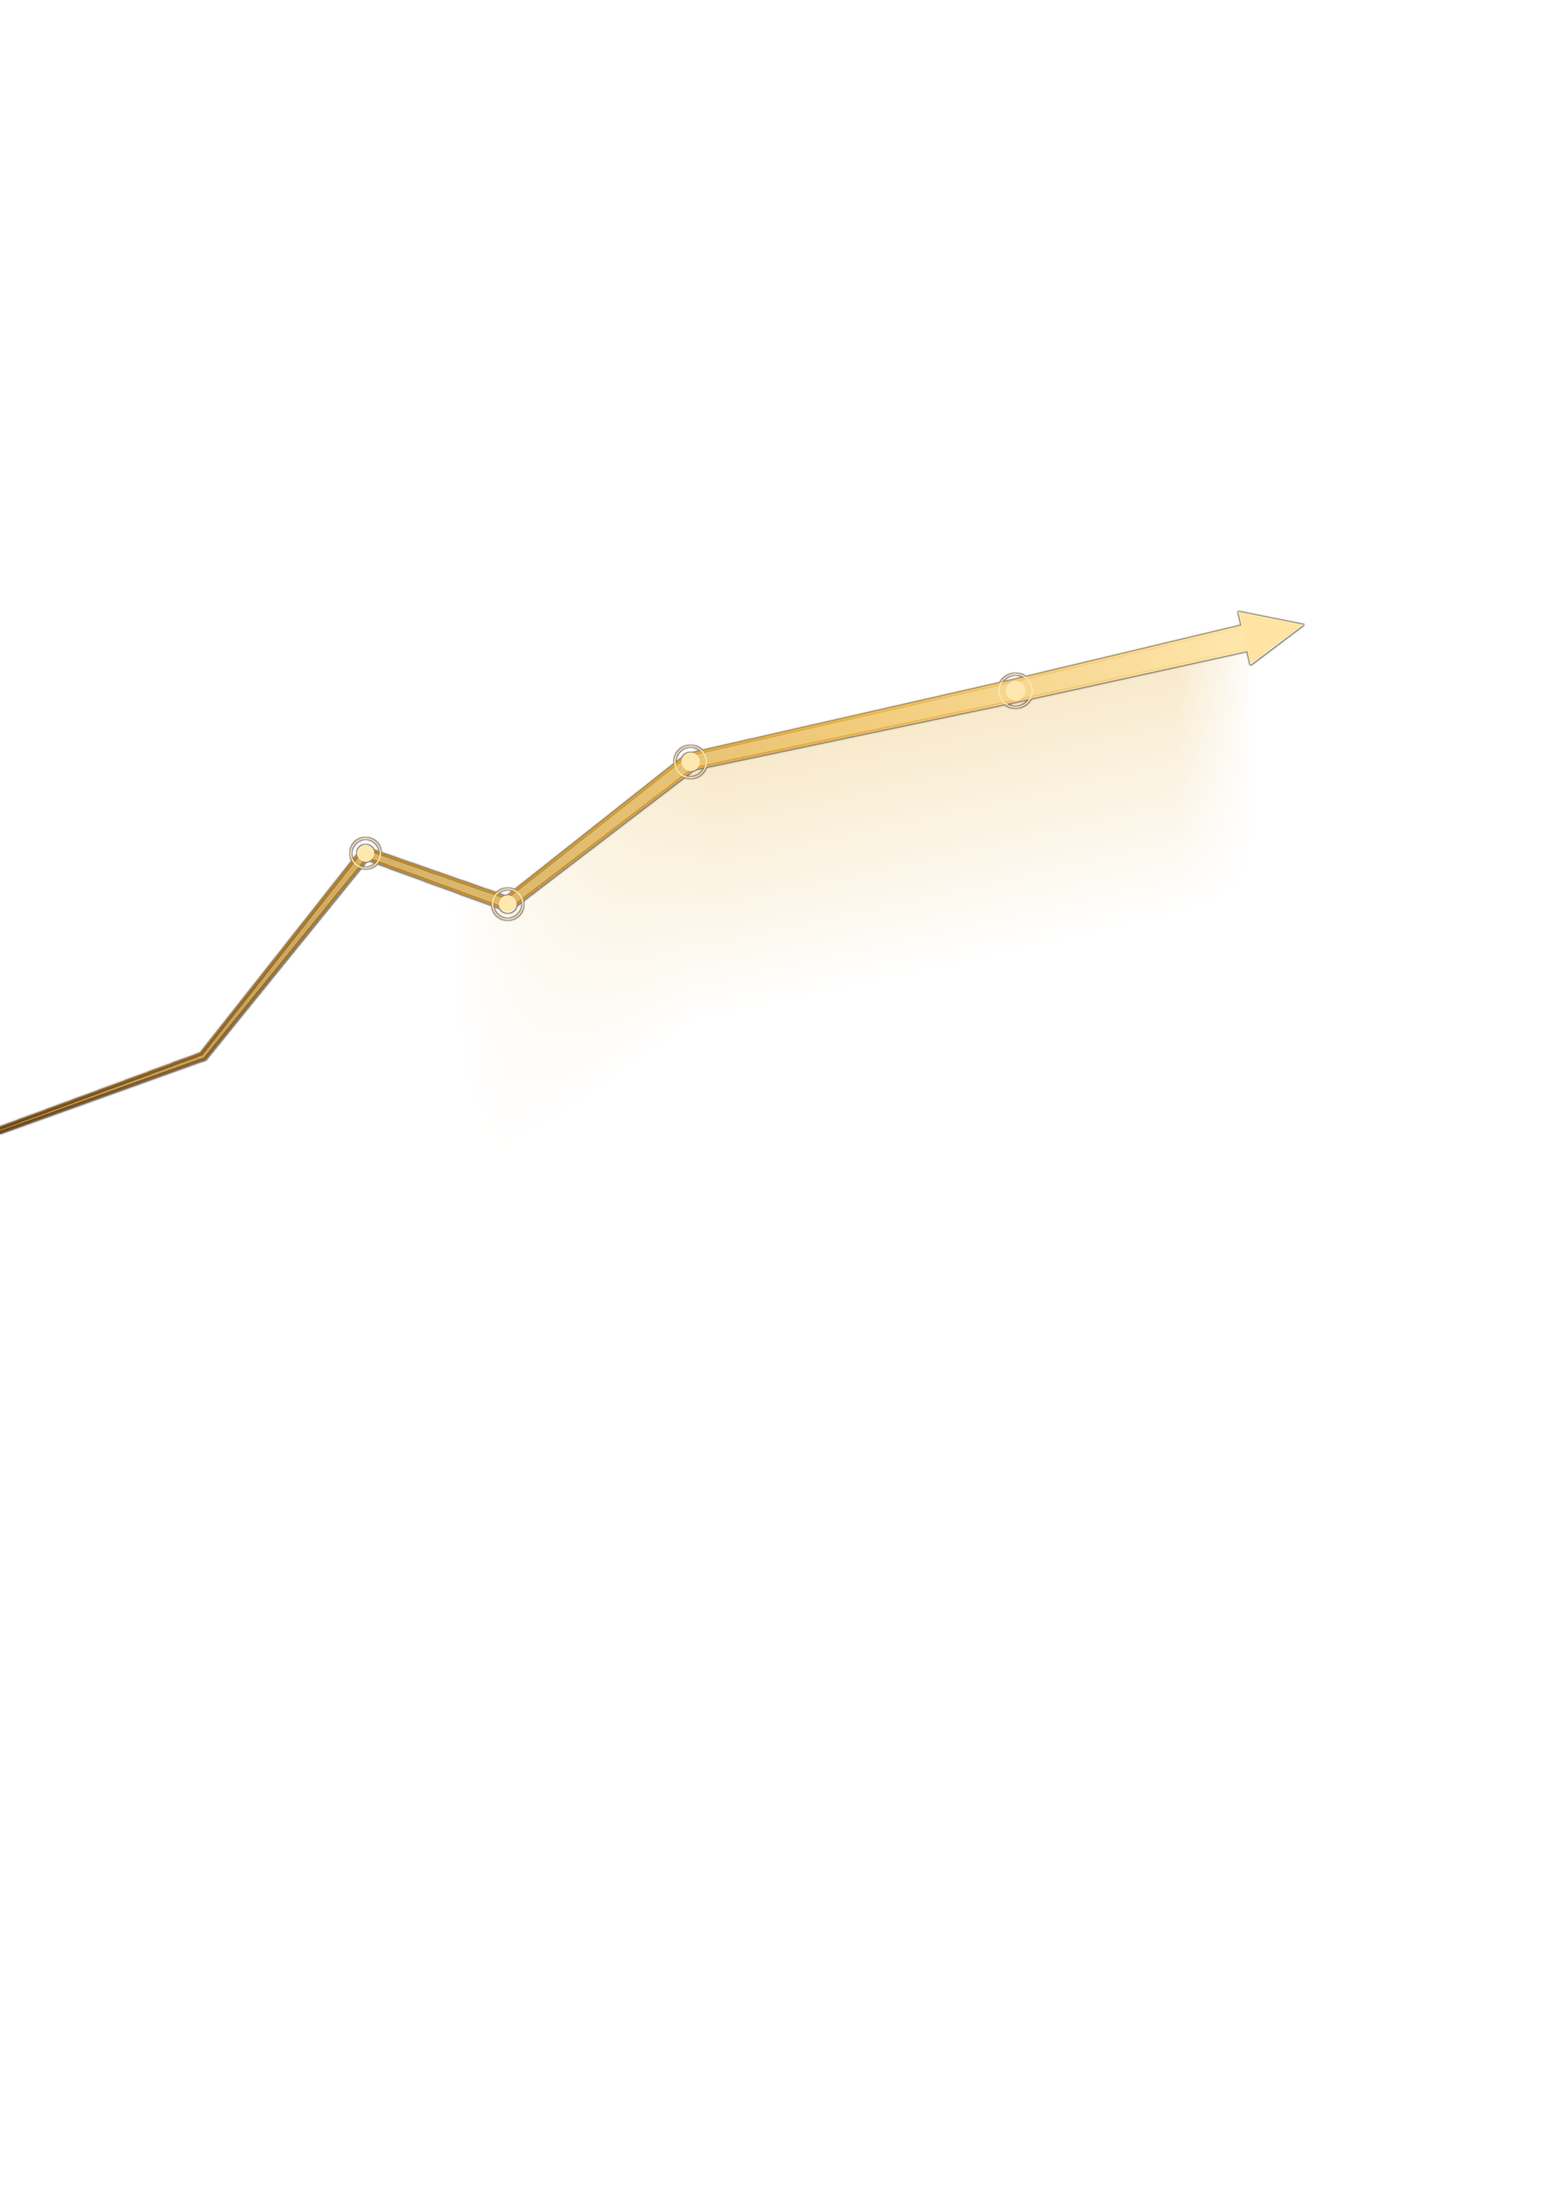
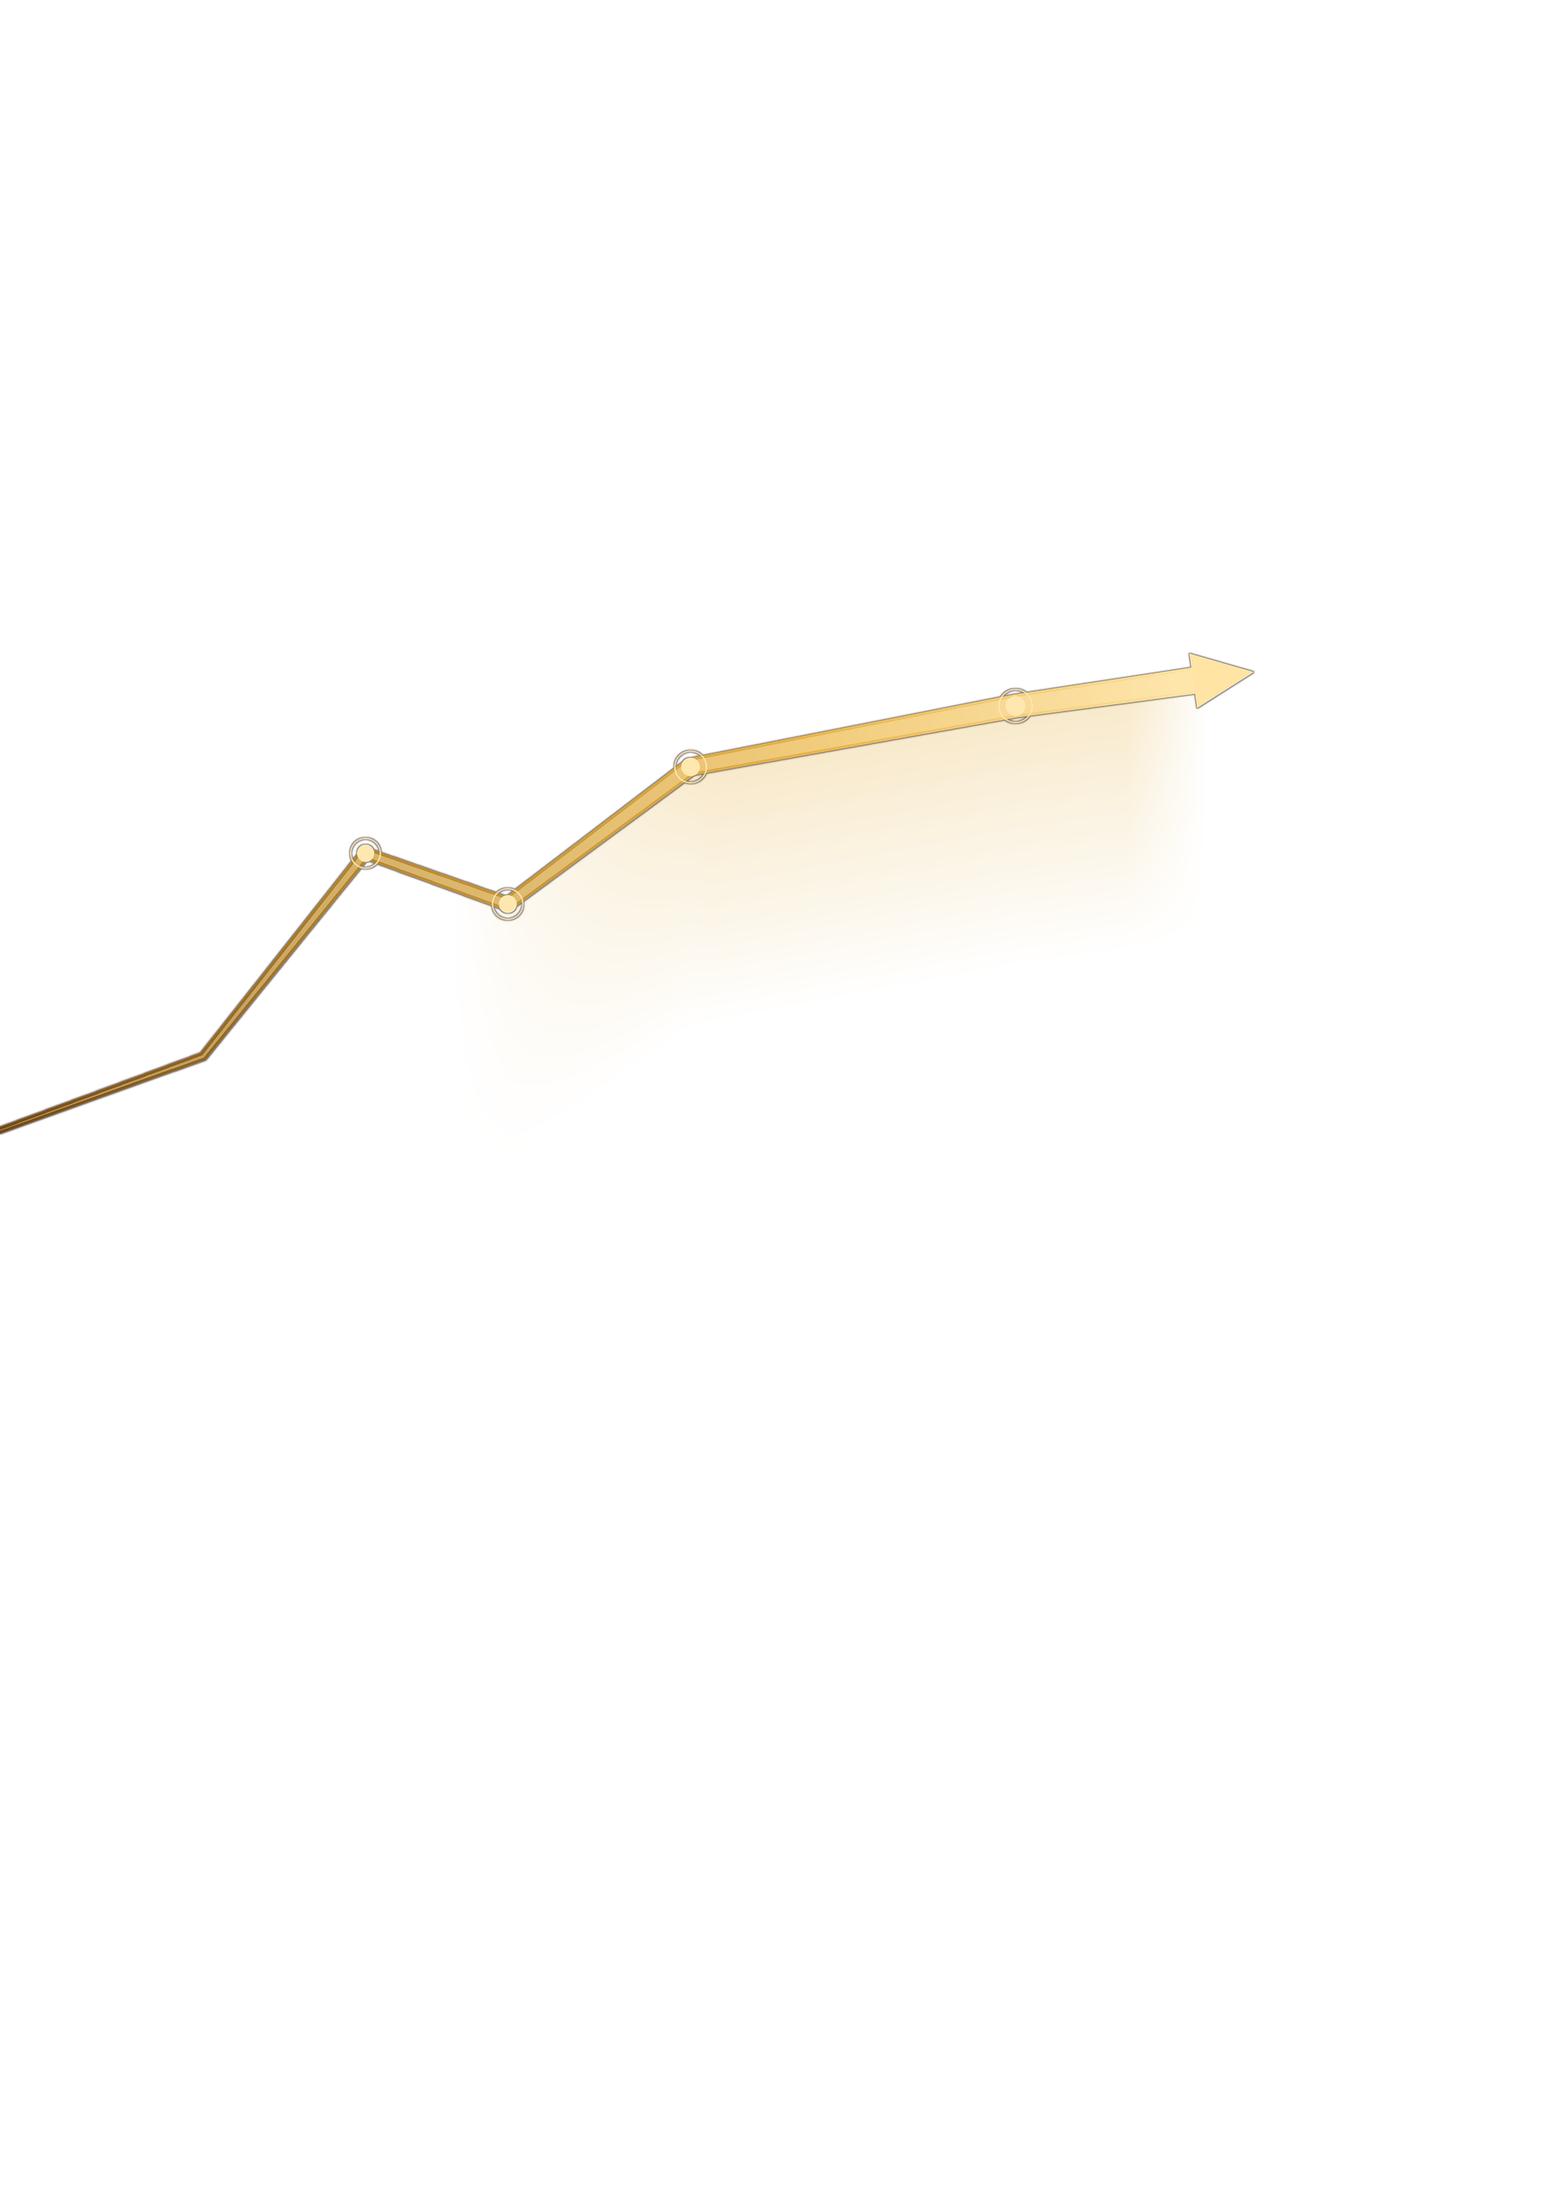
Client revision (29 Oct): Jata dominant, roundel smaller, security on every cover
From the client via Zharief:
- "Jata kene lebih menonjol / logo rahsia kena kecik skit dari jata": Jata 28 -> 33 mm,
  roundel 38 -> 27 mm (hierarchy Jata Negara > JPM > CGSO > campaign mark).
- "sizing all text dan logo dia" (2024 printed sample): headline cap height 6.9 mm as on
  the sample; the address block already matched it (42 mm wide, cap 2.1 mm).
- "semua design nk ada ciri keselamatan": C1 and C3 get C2's document-security language,
  a guilloche underprint over the dark base (knocked back behind the headline and
  roundel) and the "RAHSIAKAN RAHSIA KERAJAAN" microtext frame.
Template now writes 01_Template/CGSO2026_layout.json; covers and the C3 chart read the
roundel geometry from it (no hard-coded positions). C3 chart ends 4 mm below the address
block. Deck: security features listed per concept; a wrapped checklist item no longer
overlaps the next.

Claude-Session: https://claude.ai/code/session_01Tw5UnJa8MtZgySYWAndeu3

Changed region(s): [[0.4002, 0.2787, 0.8312, 0.3716], [0.3386, 0.3716, 0.4002, 0.4026]]

diff --git a/_scripts/build_present.py b/_scripts/build_present.py
@@ -25,10 +25,11 @@ CONCEPTS = [
                "menembusi jerebu, dan anggota ATM yang memberi tabik hormat mewakili pasukan keselamatan. Penyelidik dengan alat pemantau kualiti udara mewakili penyelidikan, "
                "manakala anak muda "
                "yang menanam pokok melambangkan tanggungjawab rakyat. Hutan hujan tropika menjadi asas: alam yang "
-               "dilindungi hari ini ialah warisan generasi akan datang."),
+               "dilindungi hari ini ialah warisan generasi akan datang. Corak guilloche dan teks mikro "
+               "\"Rahsiakan Rahsia Kerajaan\" di sekeliling kulit ialah ciri keselamatan dokumen."),
          checks=["Istana Negara, Jalan Duta", "Pegawai keselamatan: anggota ATM + pesawat C-130H TUDM",
                  "Rakyat / anak muda: belia menanam pokok", "Penyelidikan: penyelidik kualiti udara",
-                 "Jalur Gemilang"]),
+                 "Jalur Gemilang", "Ciri keselamatan: corak guilloche + teks mikro"]),
     dict(key="C2", no="KONSEP 2", theme="KESELAMATAN DOKUMEN", title="Daulat Terpelihara, Rahsia Terjaga",
          accent=(0.886, 0.737, 0.31),
          body=("Kedaulatan negara bermula dengan maklumat yang terpelihara. Corak guilloche keemasan, iaitu teknik "
@@ -42,7 +43,7 @@ CONCEPTS = [
                "pelajar menunjukkan telefon berkunci: setiap rakyat bertanggungjawab tidak berkongsi maklumat rasmi."),
          checks=["Istana Negara, Jalan Duta", "Pegawai keselamatan: PDRM + ATM + Su-30MKM TUDM",
                  "Rakyat / anak muda: pelajar universiti", "Penyelidikan: penyelidik keselamatan siber",
-                 "Jalur Gemilang"]),
+                 "Jalur Gemilang", "Ciri keselamatan: guilloche, teks mikro, Jata kerajang emas"]),
     dict(key="C3", no="KONSEP 3", theme="EKONOMI", title="Berhemah Hari Ini, Teguh Esok",
          accent=(1.0, 0.54, 0.24),
          body=("Konflik di Timur Tengah menjejaskan bekalan dan harga tenaga dunia. Bekalan minyak, gas asli, arang batu "
@@ -53,11 +54,11 @@ CONCEPTS = [
                "berhemah. Pelantar minyak dan gas di luar pesisir, krew minyak dan gas yang memantau keselamatan bekalan, "
                "ladang solar sebagai langkah penjimatan tenaga, kapal peronda TLDM KD Kelantan yang mengiringi kapal tangki, "
                "dan Su-30MKM TUDM yang mengawal laluan tenaga negara. "
-               "Semua elemen tenaga ialah foto sebenar."),
+               "Corak guilloche dan teks mikro \"Rahsiakan Rahsia Kerajaan\" ialah ciri keselamatan dokumen."),
          checks=["Tenaga: kapal tangki, pelantar minyak & gas, tangki gas, arang batu, grid TNB",
                  "Pegawai keselamatan: kapal peronda TLDM + Su-30MKM TUDM",
                  "Rakyat: krew minyak dan gas", "Penjimatan tenaga: ladang solar",
-                 "Jalur Gemilang"]),
+                 "Jalur Gemilang", "Ciri keselamatan: corak guilloche + teks mikro"]),
 ]
 
 
@@ -130,8 +131,7 @@ for c in CONCEPTS:
     y = 682
     for item in c["checks"]:
         pg.draw_circle(pymupdf.Point(x0 + 8, y + 10), 7, color=None, fill=c["accent"])
-        text(pg, (x0 + 24, y, 1180, y + 26), item, 15, "Medium", WHITE)
-        y += 30
+        y = text(pg, (x0 + 24, y, 1180, y + 26), item, 15, "Medium", WHITE) + 4      # a wrapped item pushes the next down
     mk = os.path.join(OUT, f"_deck_mock_{c['key']}.jpg")
     Image.open(os.path.join(OUT, f"mockup_{c['key']}.jpg")).resize((900, 675), Image.LANCZOS).save(mk, quality=88)
     image(pg, (1210, 330, 1560, 600), mk)

diff --git a/_scripts/build_template.py b/_scripts/build_template.py
@@ -84,8 +84,11 @@ def hex2rgb255(h):
 
 
 # ---------------------------------------------------------------- layout
-# Jata: 25 mm wide, top-right, right edge on the margin line
-JATA_W = 28.0
+# Jata: top-right, right edge on the margin line. Client revision 29 Oct (via Zharief): the Jata Negara
+# must be the most prominent mark on the cover and the "Rahsiakan Rahsia Kerajaan" roundel a little
+# smaller than it (hierarchy: Jata Negara > Jabatan Perdana Menteri > CGSO > its campaign mark), so the
+# Jata goes 28 -> 33 mm and the roundel 38 -> 27 mm. Text sizes follow the 2024 printed sample.
+JATA_W = 33.0
 JATA_H = JATA_W * JATA_ART.height / JATA_ART.width
 RIGHT = TRIM_W - MARGIN
 JATA_RECT_MM = (RIGHT - JATA_W, MARGIN, RIGHT, MARGIN + JATA_H)
@@ -101,11 +104,13 @@ OFFICE_LINES = [
     ("www.cgso.gov.my", "Regular", WWW_SIZE, b1 + 3 * OFFICE_LEAD + 1.4),
 ]
 
-# Headline: Roboto Black, sized so TANGGUNGJAWAB is 88 mm of ink, tracking -10
+# Headline: Roboto Black, tracking -10, cap height 6.9 mm as on the 2024 printed sample
+# (TANGGUNGJAWAB then measures 83 mm of ink, as on the sample)
 HEAD_TRACK = -0.01
+HEAD_CAP = 6.9
 g, s, _ = shape_line("TANGGUNGJAWAB", "Black", 10, HEAD_TRACK)
-x0, x1, _, _ = outline_bounds(g, s)
-HEAD_SIZE = 10 * (88.0 * MM) / (x1 - x0)
+_, _, yt, _ = outline_bounds(g, s)
+HEAD_SIZE = 10 * (HEAD_CAP * MM) / (-yt)
 HEAD_PITCH = 0.93 * HEAD_SIZE / MM          # mm between baselines
 LAST_BASE = 188.0
 HEAD_LINES = [
@@ -129,9 +134,9 @@ HEAD = head_contours()
 head_cap_top = {t: b[2] / MM - BLEED for (t, _, _), (_, _, b) in zip(HEAD_LINES, HEAD)}
 head_right = {t: b[1] / MM - BLEED for (t, _, _), (_, _, b) in zip(HEAD_LINES, HEAD)}
 
-# Roundel: white brushed disc 38 mm wide, right edge on the margin line,
-# sitting beside LINDUNGI / ASET NEGARA and clear of TANGGUNGJAWAB.
-ROUND_W = 38.0
+# Roundel: white brushed disc 27 mm wide (smaller than the Jata, client revision 29 Oct), right edge on
+# the margin line, sitting beside LINDUNGI / ASET NEGARA and clear of TANGGUNGJAWAB.
+ROUND_W = 27.0
 ROUND_H = ROUND_W * ROUNDEL_ART.height / ROUNDEL_ART.width
 round_left = RIGHT - ROUND_W
 gap = 3.0
@@ -389,3 +394,11 @@ print("cap tops:", {k: round(v, 1) for k, v in head_cap_top.items()})
 print("right ink:", {k: round(v, 1) for k, v in head_right.items()})
 print("jata mm:", [round(v, 2) for v in JATA_RECT_MM], "roundel mm:", [round(v, 2) for v in ROUND_RECT_MM])
 print("office baselines:", [round(l[3], 2) for l in OFFICE_LINES])
+# geometry for the cover builds (canvas mm, i.e. trim + 3 mm bleed): no hard-coded logo positions there
+import json
+rr, jr = ROUND_RECT_MM, JATA_RECT_MM
+with open(os.path.join(OUT, "CGSO2026_layout.json"), "w") as fh:
+    json.dump(dict(roundel_c=[(rr[0] + rr[2]) / 2 + BLEED, (rr[1] + rr[3]) / 2 + BLEED], roundel_r=(rr[2] - rr[0]) / 2,
+                   jata=[jr[0] + BLEED, jr[1] + BLEED, jr[2] + BLEED, jr[3] + BLEED],
+                   head_cap_top={k: v + BLEED for k, v in head_cap_top.items()},
+                   head_right={k: v + BLEED for k, v in head_right.items()}), fh, indent=1)

diff --git a/_scripts/comp.py b/_scripts/comp.py
@@ -375,6 +375,33 @@ def text_burn(root, key, layer="Office block", feather_mm=1.6, spread_mm=(1.2, 0
 _fixed_cache = {}
 
 
+def layout(root):
+    """Template geometry (canvas mm) written by build_template.py: roundel centre/radius, Jata box, headline."""
+    import json
+    with open(os.path.join(root, "01_Template", "CGSO2026_layout.json")) as fh:
+        return json.load(fh)
+
+
+def add_security(root, key, st, color, base_top_mm, field_opacity=0.55, frame_opacity=0.5):
+    """Client revision 29 Oct: every concept carries document-security features, in C2's language.
+    (1) a guilloche underprint (the C2 interference line field, lines one pixel heavier so they hold in
+    print) over the dark base, fading in from base_top_mm, knocked back behind the headline and roundel;
+    (2) the "RAHSIAKAN RAHSIA KERAJAAN" microtext frame 8 mm inside the trim."""
+    sec = os.path.join(root, "02_Vectors", "C2_Security")
+    yy = np.arange(H, dtype=np.float32)[:, None] / PXMM
+    lay = layout(root)
+    wf = place(load_rgba(os.path.join(sec, "C2_guilloche_wavefield_300ppi.png")), left_mm=0, top_mm=0, width_mm=154)
+    wf[..., 3] = cv2.dilate(wf[..., 3], np.ones((2, 2), np.uint8))
+    wf[..., :3] = hexf(color)
+    wf[..., 3] *= np.clip((yy - base_top_mm) / 14, 0, 1)
+    wf[..., 3] *= 1 - text_burn(root, key, "Headline", feather_mm=1.2, spread_mm=(1.2, 0.8)) * 0.9
+    wf[..., 3] *= 1 - radial(*lay["roundel_c"], lay["roundel_r"] + 2.5, 3.0)
+    st.add("Security - guilloche underprint", wf, opacity=field_opacity)
+    mf = place(load_rgba(os.path.join(sec, "C2_microtext_frame_300ppi.png")), left_mm=0, top_mm=0, width_mm=154)
+    mf[..., :3] = hexf(color)
+    st.add("Security - microtext frame", mf, opacity=frame_opacity)
+
+
 def fixed_layers(root, key):
     if (root, key) not in _fixed_cache:
         _fixed_cache[(root, key)] = _fixed_layers(root, key)

diff --git a/_scripts/build_C1.py b/_scripts/build_C1.py
@@ -267,13 +267,18 @@ st.add("Shade - headline accent lines (soft burn)", full(np.broadcast_to(C.hexf(
        C.text_burn(ROOT, "C1", "Headline", feather_mm=2.5, spread_mm=(2.0, 1.2), rows_mm=(146, 176)) * 0.6))
 
 # Jata + office block: a soft deep-blue pad so the emblem pops over sky and flag
-st.add("Shade - roundel backing", full(np.broadcast_to(C.hexf("#04190F"), (H, W, 3)), C.radial(118, 151.8, 30, 1.6) * 0.5))
+LAY = C.layout(ROOT)
+st.add("Shade - roundel backing", full(np.broadcast_to(C.hexf("#04190F"), (H, W, 3)),
+       C.radial(*LAY["roundel_c"], LAY["roundel_r"] * 1.6, 1.6) * 0.5))
 tr = np.clip(C.radial(120, 30, 46, 1.4) * 0.62 + C.radial(154, 0, 82, 1.7) * 0.35, 0, 0.75)
 st.add("Shade - Jata + office text", full(np.broadcast_to(C.hexf("#0B2B56"), (H, W, 3)), tr))
 # the 7.5-8.5 pt white office lines cross the flag's white stripes and bright cloud: a soft burn
 # shaped to the lines (no box) keeps every line above 4.5:1
 st.add("Shade - office text (soft burn)", full(np.broadcast_to(C.hexf("#0B2B56"), (H, W, 3)),
                                                C.text_burn(ROOT, "C1") * 0.75))
+
+# client revision 29 Oct: security features on every concept (guilloche underprint + microtext frame)
+C.add_security(ROOT, "C1", st, "#BDAE5E", base_top_mm=140, field_opacity=0.36)
 
 
 def grade(c):

diff --git a/_scripts/build_C3.py b/_scripts/build_C3.py
@@ -360,13 +360,18 @@ st.add("Solar farm base", so)
 shade = np.clip((yy - 140) / 56, 0, 1) ** 1.15 * 0.88
 shade = shade * np.clip((120 - xx) / 32, 0.5, 1)
 st.add("Shade - headline base", full(np.broadcast_to(C.hexf(DUSK), (H, W, 3)), shade))
-st.add("Shade - roundel backing", full(np.broadcast_to(C.hexf(DUSK), (H, W, 3)), C.radial(118, 151.8, 30, 1.6) * 0.5))
+LAY = C.layout(ROOT)
+st.add("Shade - roundel backing", full(np.broadcast_to(C.hexf(DUSK), (H, W, 3)),
+       C.radial(*LAY["roundel_c"], LAY["roundel_r"] * 1.6, 1.6) * 0.5))
 tr = np.clip(C.radial(120, 30, 46, 1.4) * 0.72 + C.radial(154, 0, 82, 1.7) * 0.4, 0, 0.82)
 st.add("Shade - Jata + office text", full(np.broadcast_to(C.hexf("#0B1638"), (H, W, 3)), tr))
 st.add("Shade - office text (soft burn)", full(np.broadcast_to(C.hexf("#0B1638"), (H, W, 3)),
                                                C.text_burn(ROOT, "C3") * 0.3))
 st.add("Shade - headline accent lines (soft burn)", full(np.broadcast_to(C.hexf(DUSK), (H, W, 3)),
        C.text_burn(ROOT, "C3", "Headline", feather_mm=2.5, spread_mm=(2.0, 1.2), rows_mm=(140, 168)) * 0.75))
+
+# client revision 29 Oct: security features on every concept (guilloche underprint + microtext frame)
+C.add_security(ROOT, "C3", st, "#D39246", base_top_mm=141, field_opacity=0.36)
 
 
 def grade(c):

diff --git a/_scripts/build_growth.py b/_scripts/build_growth.py
@@ -29,7 +29,10 @@ NODE = "#FFE7B0"
 ARC = "#D9B24C"
 
 # roundel (canvas mm) from the template, used for a clearance check
-ROUNDEL_C, ROUNDEL_R = (118.0, 151.8), 19.3
+import json
+with open(os.path.join(ROOT, "01_Template", "CGSO2026_layout.json")) as _fh:
+    _lay = json.load(_fh)
+ROUNDEL_C, ROUNDEL_R = tuple(_lay["roundel_c"]), _lay["roundel_r"] + 0.3
 
 
 def hexrgb(h):
@@ -102,8 +105,9 @@ def save_preview(layers, stem):
 # 9.5 review: the line used to run off the top-right edge behind the address block and never visibly
 # ended, so it could read as "prices rising". It now ends below the address block in an arrowhead:
 # a dip, a recovery, and growth that lands, unambiguously positive.
-CHART = [(-2.0, 112.0), (20.0, 104.0), (36.0, 84.0), (50.0, 89.0), (68.0, 75.0), (100.0, 68.0),
-         (124.0, 62.5)]
+# (29 Oct: the larger Jata moved the address block 4 mm down; the arrow now lands 4 mm below "www")
+CHART = [(-2.0, 112.0), (20.0, 104.0), (36.0, 84.0), (50.0, 89.0), (68.0, 75.5), (100.0, 69.5),
+         (119.0, 66.8)]
 NODE_IDX = (2, 3, 4, 5)                          # visible points (0-1 sit behind the platform); the last is the arrow
 ARROW_LEN, ARROW_W = 6.0, 5.4                    # mm
 # C3 heads (canvas mm); nodes must stay clear of faces
